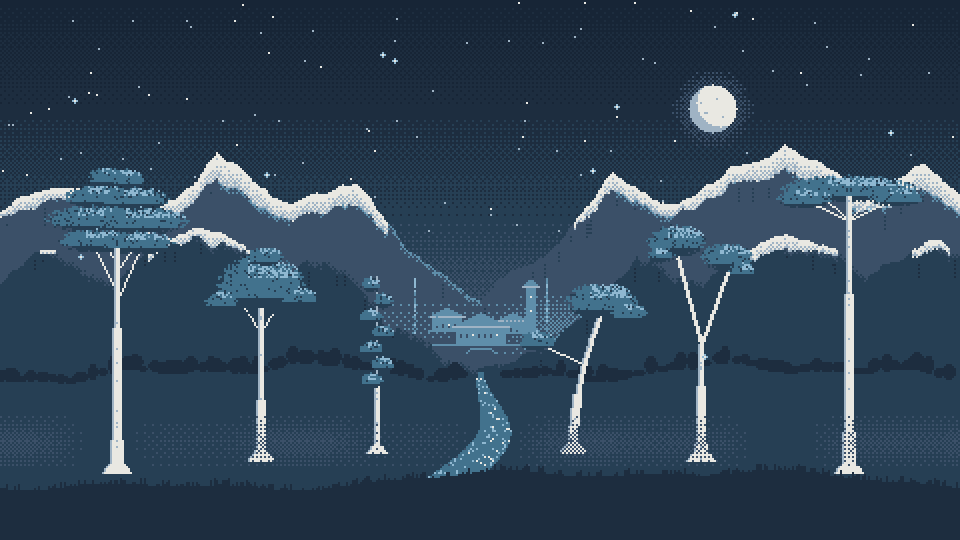
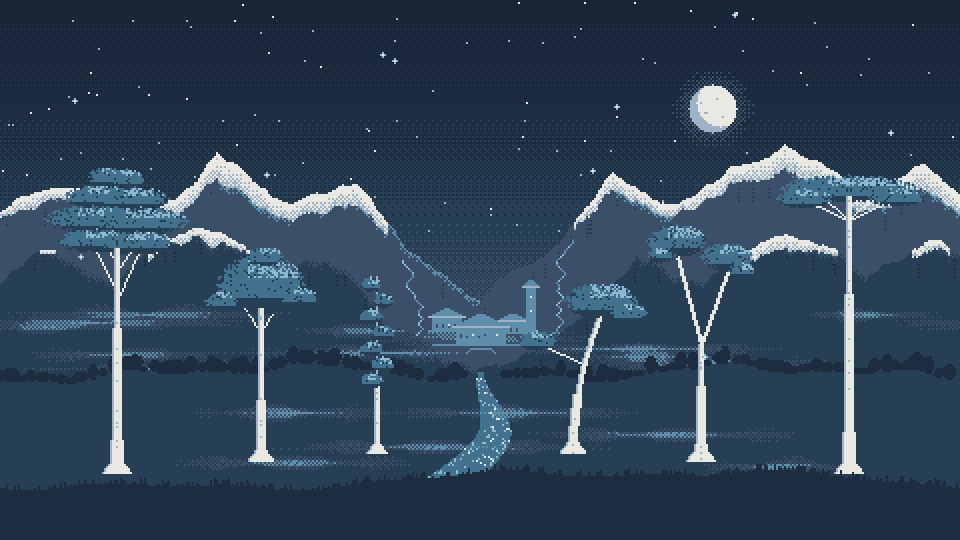
feat(home): falls find their way down, fog learns to be fog
The waterfalls were straight vertical lines that read as poles or beams of
light.

- Each fall now runs down the cliff in slanted runs and short drops, mostly
  towards the valley. It turns back at the edge of a narrow band, so it
  zigzags and ends at the foot of the rock, clear of the refuge, and it
  never steps off the rock into sky.
- The mist was opaque dither dots. It is now haze, after shorts-factory's
  studio: billowing wisps with faded edges and a lighter middle, blended
  with `mix-blend-mode: lighten`. Darker colours behind them lift a step,
  brighter ones cut through, and everything stays on the palette. Three
  layers drift at different speeds. The far ones sit in front of the near
  range, so fog gathers at the mountains' feet and in the valley.

diff --git a/design/README.md b/design/README.md
@@ -15,7 +15,8 @@ Lorien Labs is a tree with its roots showing: steady, grown rather than assemble
 
 - The home hero is a night forest drawn by `scripts/scene.mjs`: silver trees, snowy mountains, a river, an elven refuge in the valley, the moon. `pnpm scene` writes one transparent 480×270 layer per depth to `public/scene/` and a flat preview to `assets/hero-scene.png`.
 - It uses only the palette's dark values, so the scene is night in both themes. Pixel art has no blends: gradients and fades are ordered dithering, glows are a ring of pixels.
-- `src/components/HeroScene.astro` stacks the layers. Each has a `depth`: how far it sinks and pans while the page scrolls, and how far it leans from the pointer. Mist drifts, stars, river and waterfalls twinkle, leaves fall and fireflies blink. All of it stops for reduced motion.
+- `src/components/HeroScene.astro` stacks the layers. Each has a `depth`: how far it sinks and pans while the page scrolls, and how far it leans from the pointer. Haze drifts, stars, river and waterfalls twinkle, leaves fall and fireflies blink. All of it stops for reduced motion.
+- Haze is translucent the pixel art way, after shorts-factory's studio: wisps blended with `mix-blend-mode: lighten` lift every darker colour behind them a step and let brighter ones (snow, trunks, lanterns) cut through, so the result stays on the palette.
 - It evokes an elven forest; it never copies a film, a game or a named place.
 
 ## Colour
